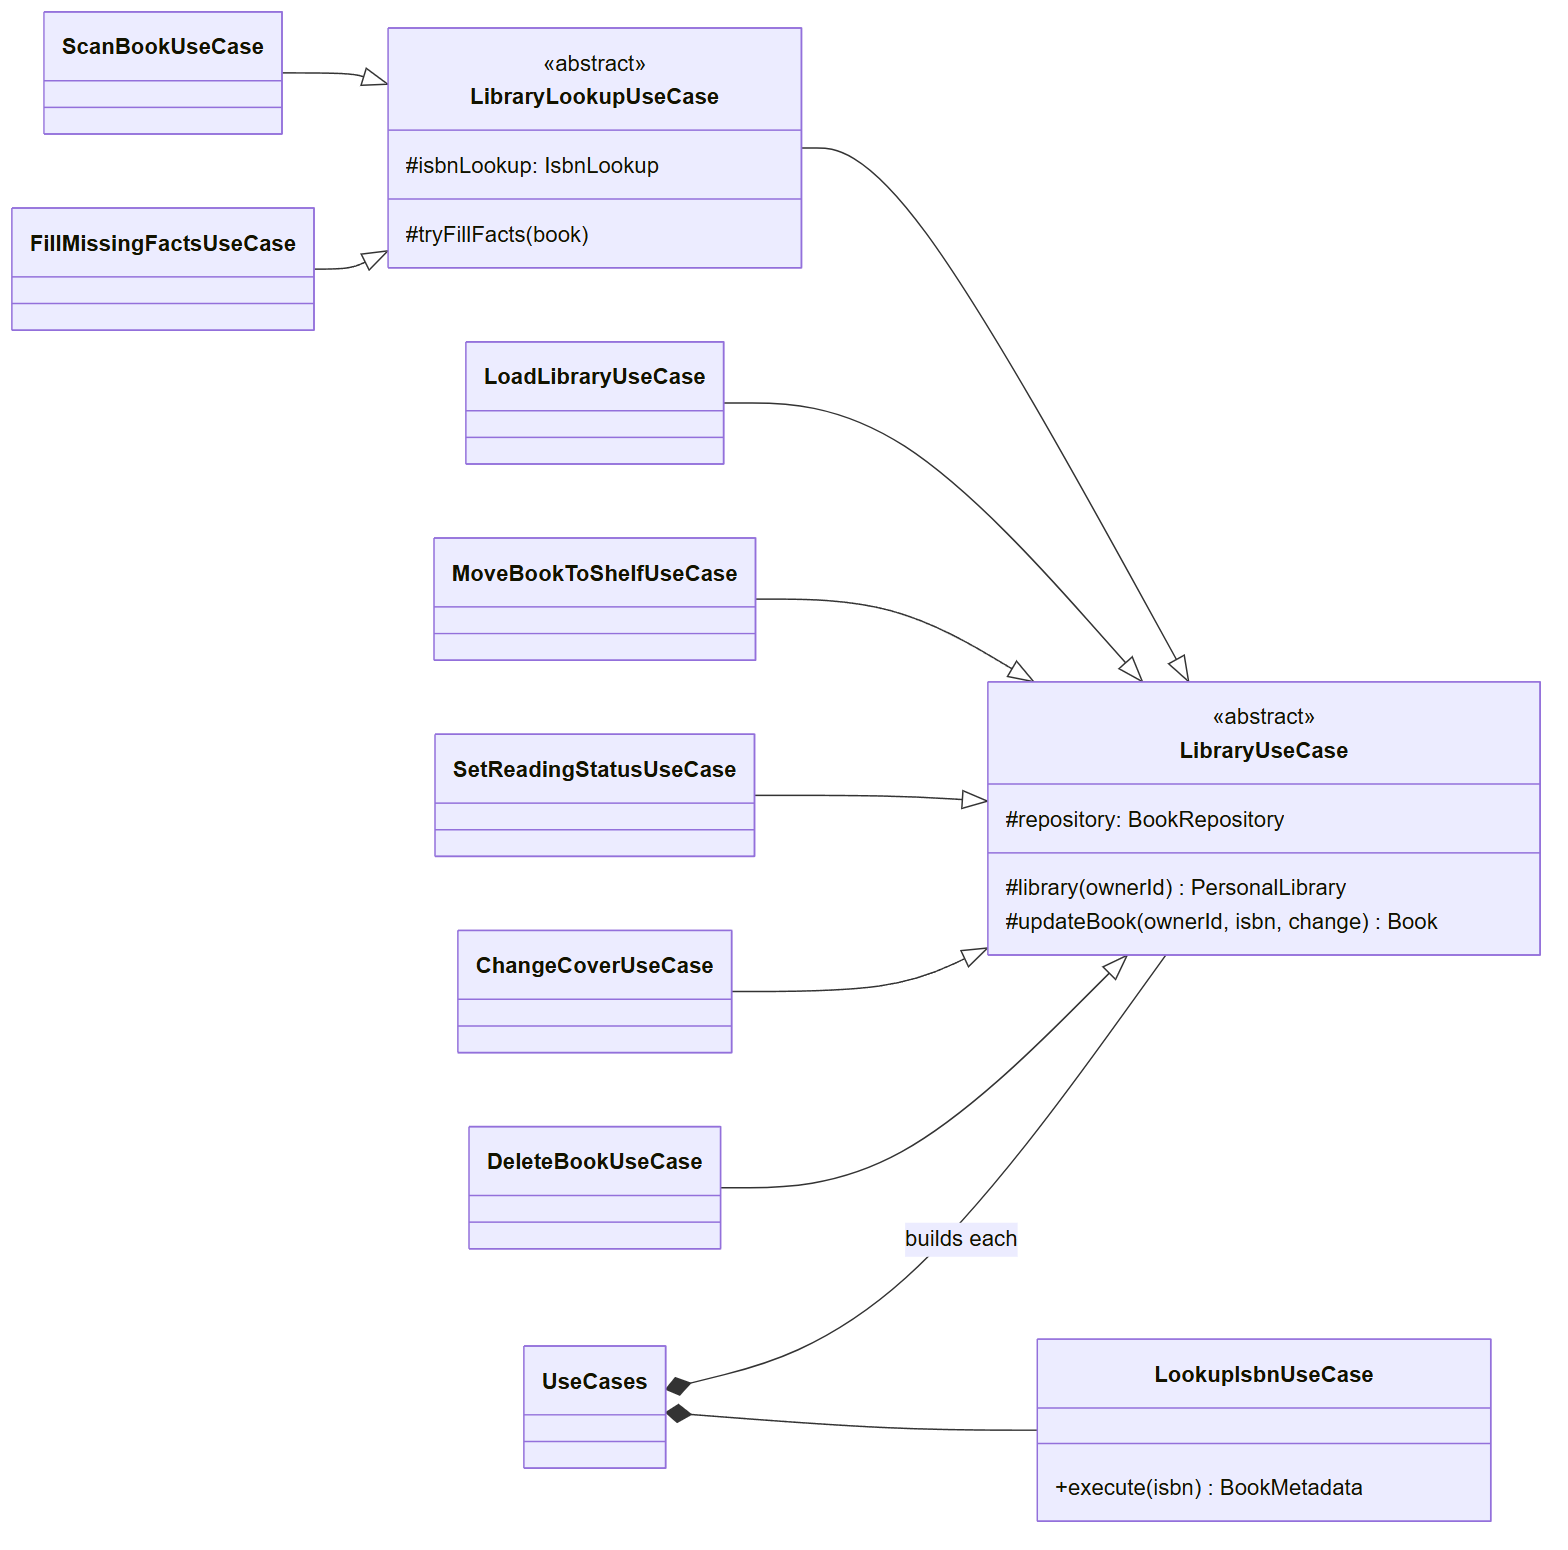
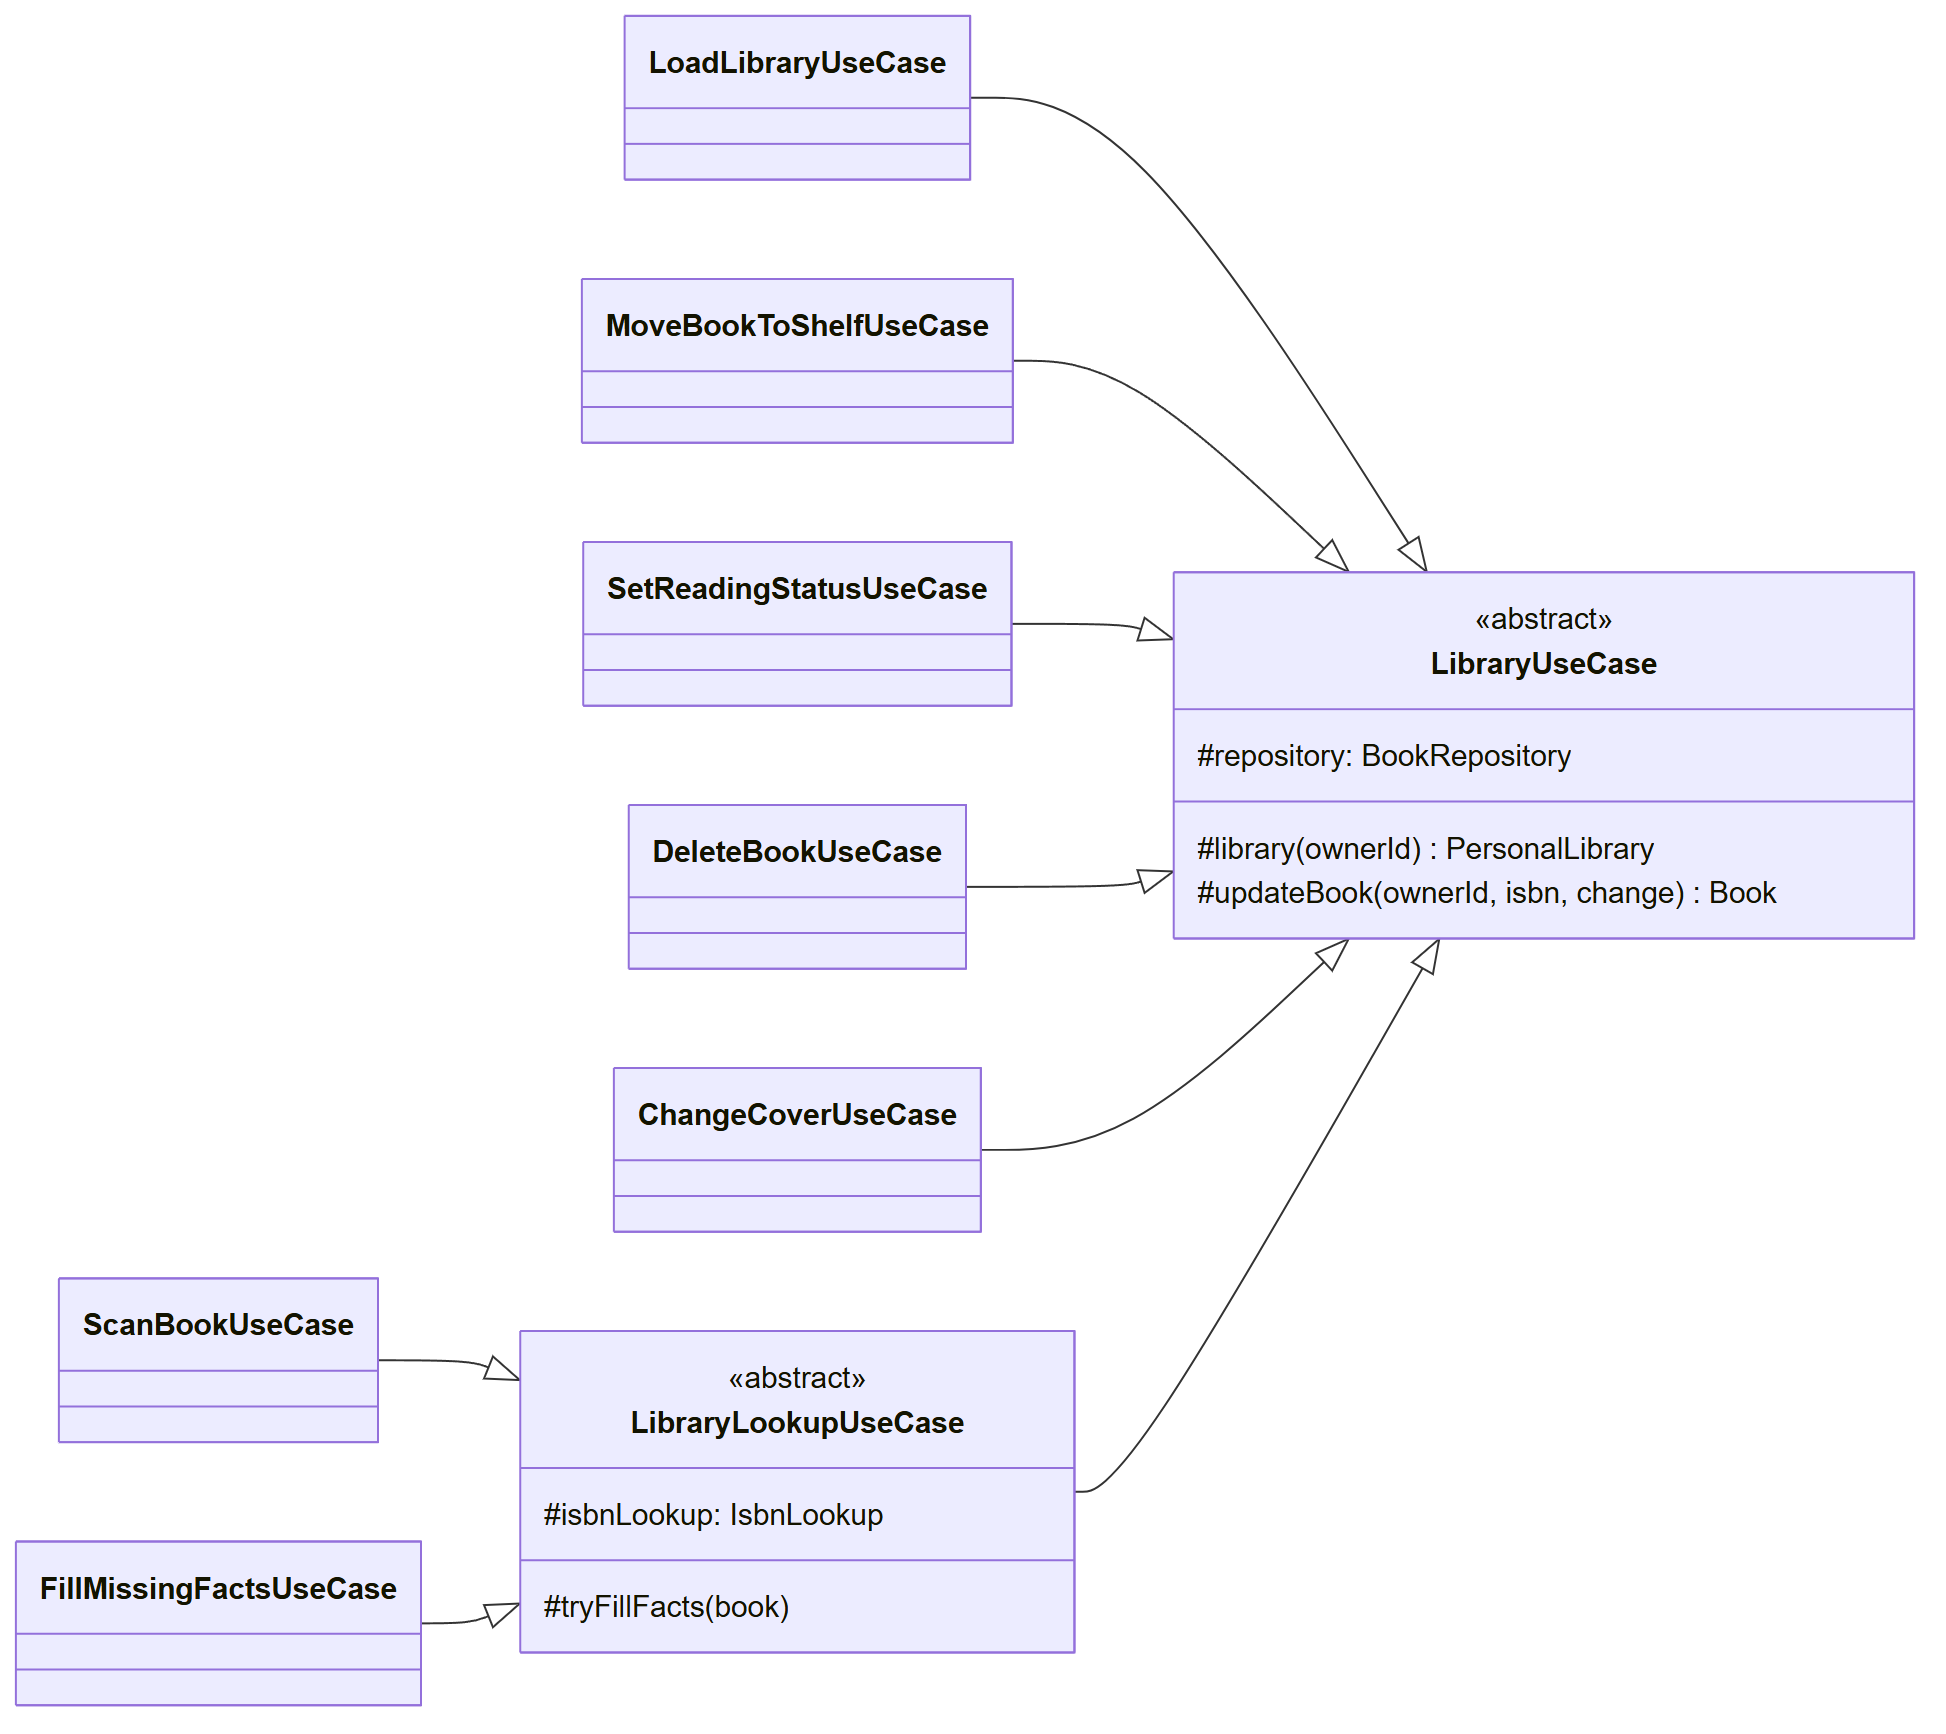
Design doc: readable Service and Data interface diagrams; drop the class diagrams that repeated them
iface-service (3.9pt -> 7.2pt) now shows the use-case hierarchy only (the text covers LookupIsbnUseCase and UseCases); iface-data (5.8pt -> 8.4pt) is laid out left to right. The Service and Data class diagrams in 6.3.3 showed the same classes again, so that section now refers to these figures instead: one diagram per tier, less repetition.

Refs #18

diff --git a/docs/design/DesignDocument_Hechavarria.tex b/docs/design/DesignDocument_Hechavarria.tex
@@ -331,7 +331,7 @@ Figure~\ref{fig:iface_presentation} shows the interface between the screens and 
 
 \begin{figure}[htbp]
 \centering
-\includegraphics[width=\textwidth, height=0.42\textheight, keepaspectratio]{figures/iface-service.png}
+\includegraphics[width=\textwidth, height=0.9\textheight, keepaspectratio]{figures/iface-service.png}
 \caption{Service Use Case Interface}
 \label{fig:iface_service}
 \end{figure}
@@ -353,7 +353,7 @@ Figure~\ref{fig:iface_domain} shows the domain interface. \texttt{PersonalLibrar
 
 \begin{figure}[htbp]
 \centering
-\includegraphics[width=0.9\textwidth, height=0.3\textheight, keepaspectratio]{figures/iface-data.png}
+\includegraphics[width=\textwidth, height=0.9\textheight, keepaspectratio]{figures/iface-data.png}
 \caption{Book Repository Interface}
 \label{fig:iface_data}
 \end{figure}
@@ -1241,19 +1241,7 @@ Figure~\ref{fig:activity} shows every decision in the scan flow, including the t
 \label{fig:class_domain}
 \end{figure}
 
-\begin{figure}[htbp]
-\centering
-\includegraphics[width=\textwidth, height=0.9\textheight, keepaspectratio]{figures/class-service.png}
-\caption{Class Diagram: Service use cases (the two abstract bases hold the ports they use)}
-\label{fig:class_service}
-\end{figure}
 
-\begin{figure}[htbp]
-\centering
-\includegraphics[width=\textwidth, height=0.9\textheight, keepaspectratio]{figures/class-data.png}
-\caption{Class Diagram: Data adapters and the ports they implement}
-\label{fig:class_data}
-\end{figure}
 
 \begin{figure}[htbp]
 \centering
@@ -1265,7 +1253,7 @@ Figure~\ref{fig:activity} shows every decision in the scan flow, including the t
 
 \FloatBarrier
 
-Figure~\ref{fig:class_domain} is the core class diagram: the five domain classes that carry the system's rules (\texttt{PersonalLibrary}, \texttt{Book}, \texttt{AcquisitionRecord}, \texttt{Purchase}, \texttt{Gift}) with their real attributes and relationships, plus two enumerations. Figures~\ref{fig:class_service}, \ref{fig:class_data} and~\ref{fig:class_presentation} are supplementary: they show how the other tiers are built (Service, Data, Presentation), for readers tracing a call through the code. The object-oriented techniques used, and where:
+Figure~\ref{fig:class_domain} is the core class diagram: the five domain classes that carry the system's rules (\texttt{PersonalLibrary}, \texttt{Book}, \texttt{AcquisitionRecord}, \texttt{Purchase}, \texttt{Gift}) with their real attributes and relationships, plus two enumerations. The other tiers' classes are drawn where their interfaces are described, so they are not repeated here: Service in Figure~\ref{fig:iface_service}, Data in Figures~\ref{fig:iface_data} and~\ref{fig:iface_sources}. Figure~\ref{fig:class_presentation} adds the Presentation view model, its device family, and the catalog strategies. The object-oriented techniques used, and where:
 
 \begin{longtable}{|L{3.6cm}|L{11cm}|}
 \hline
